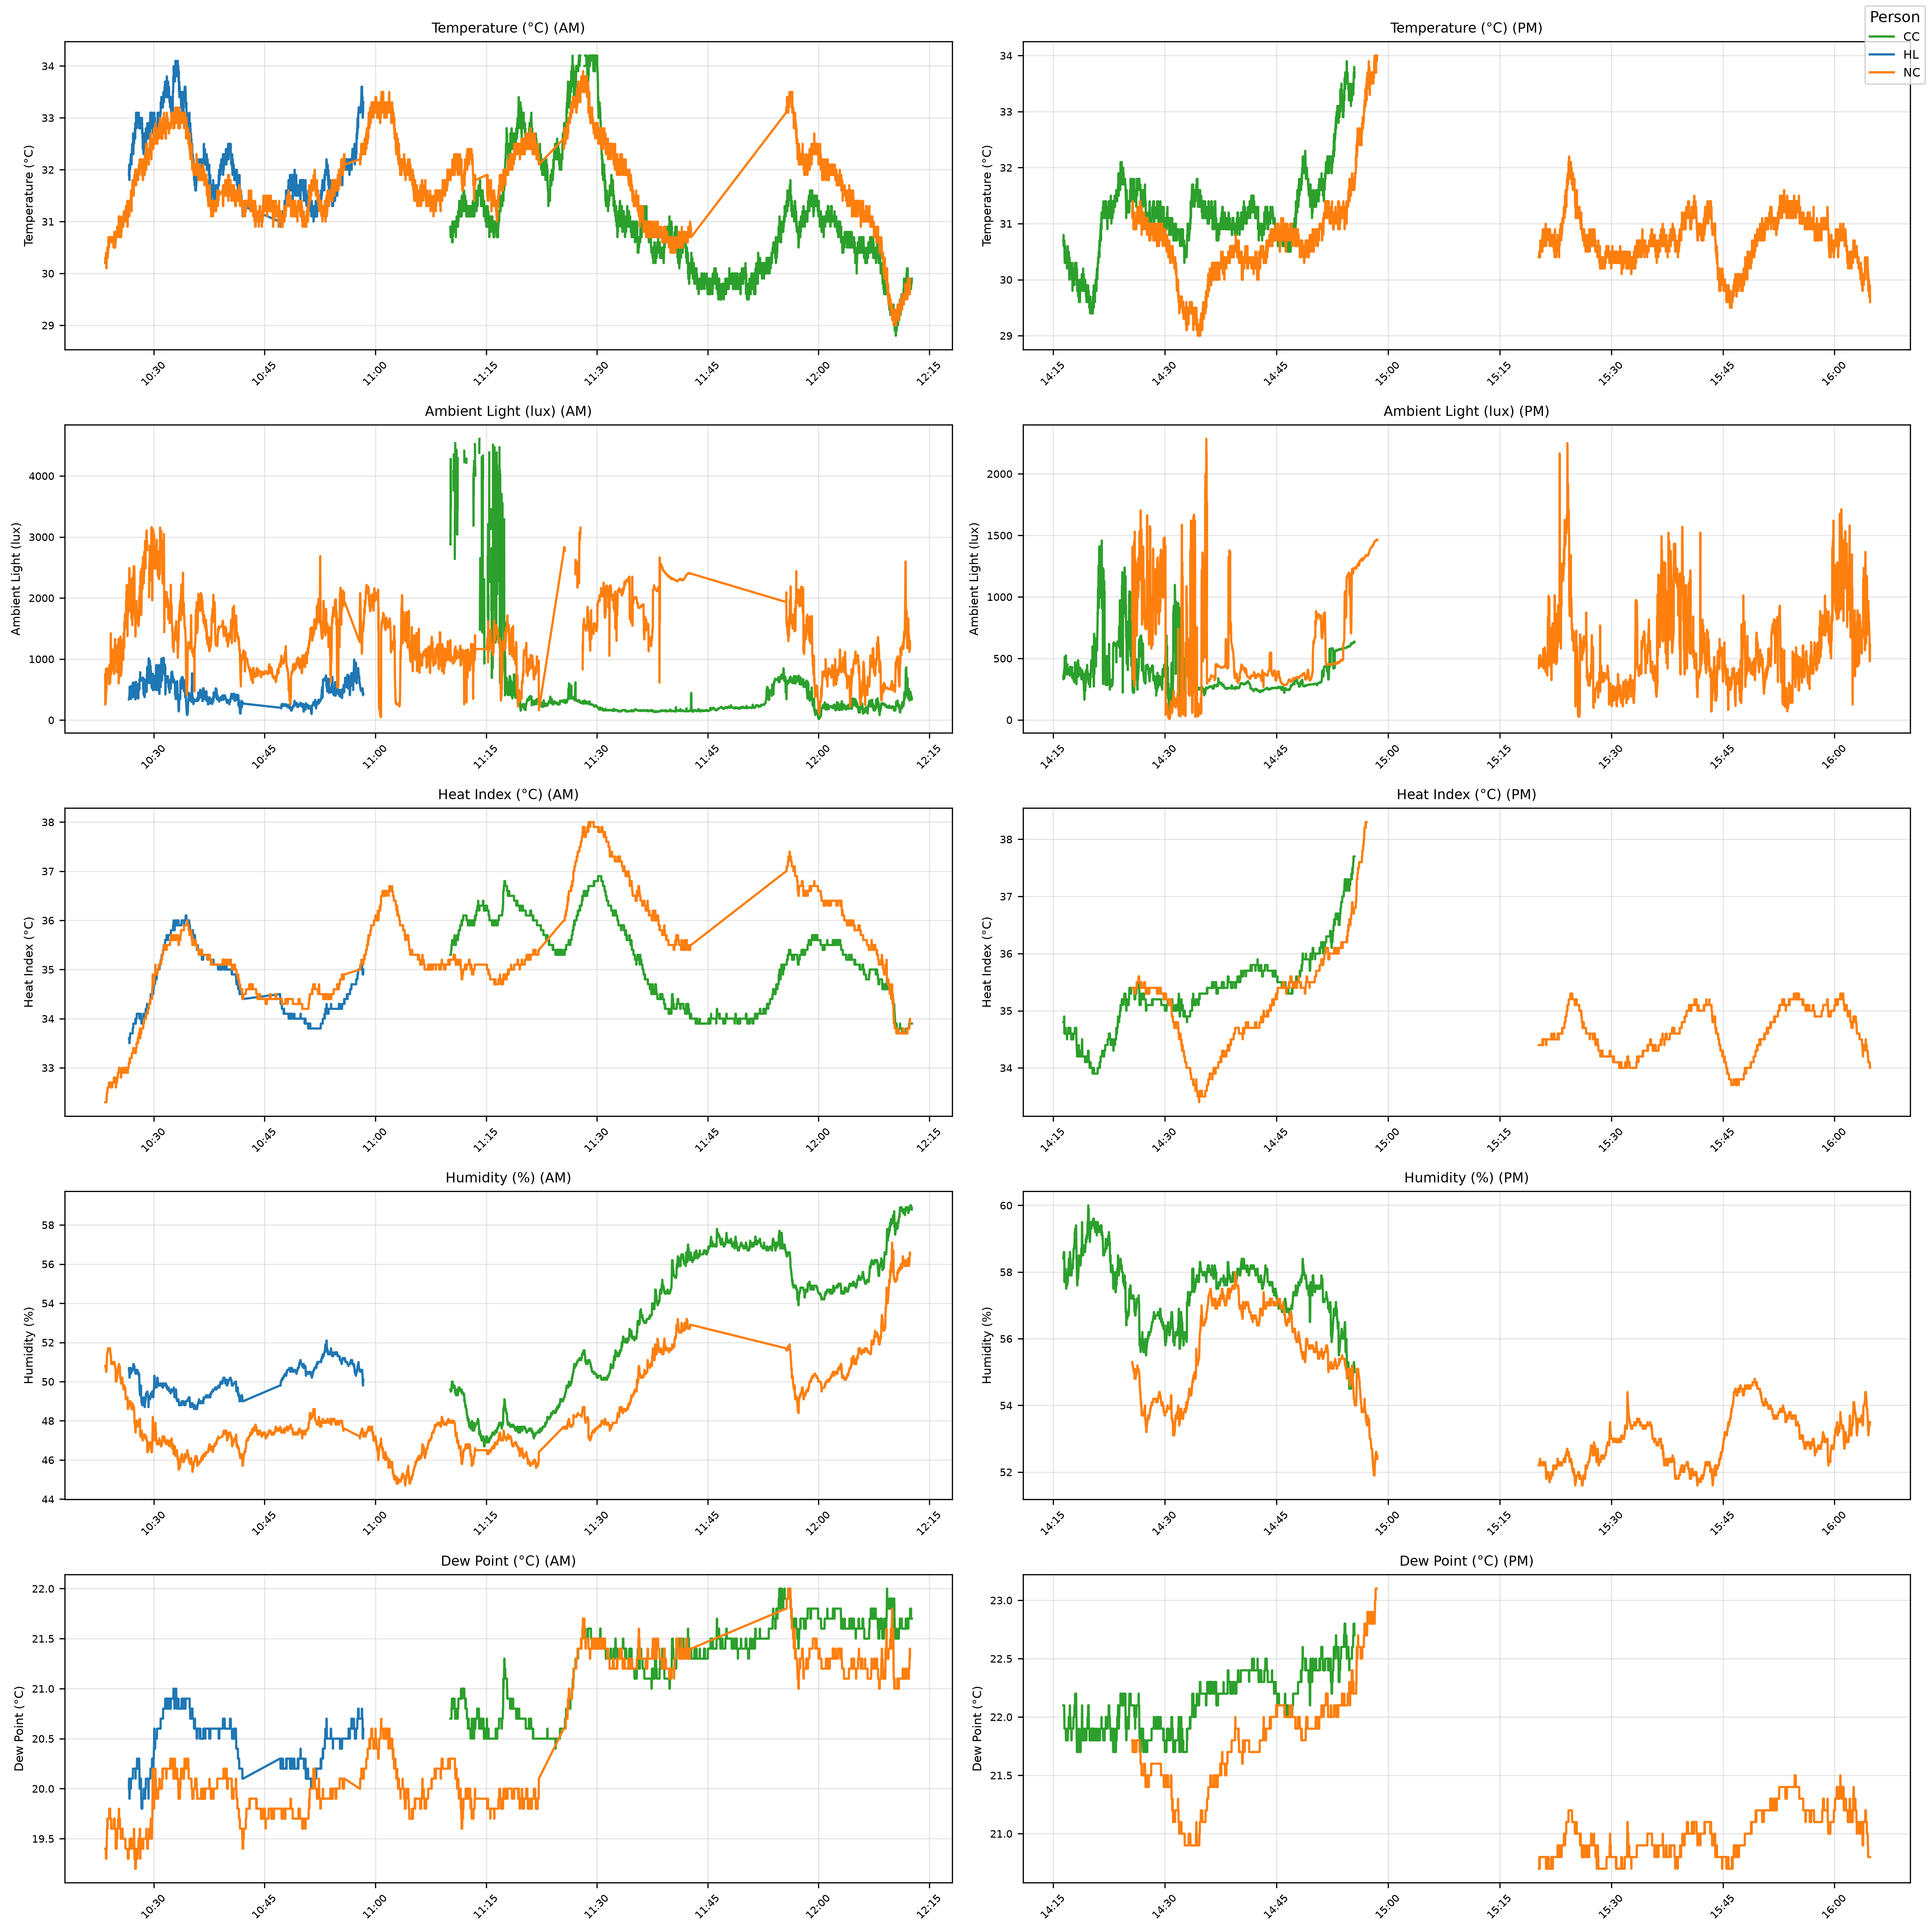
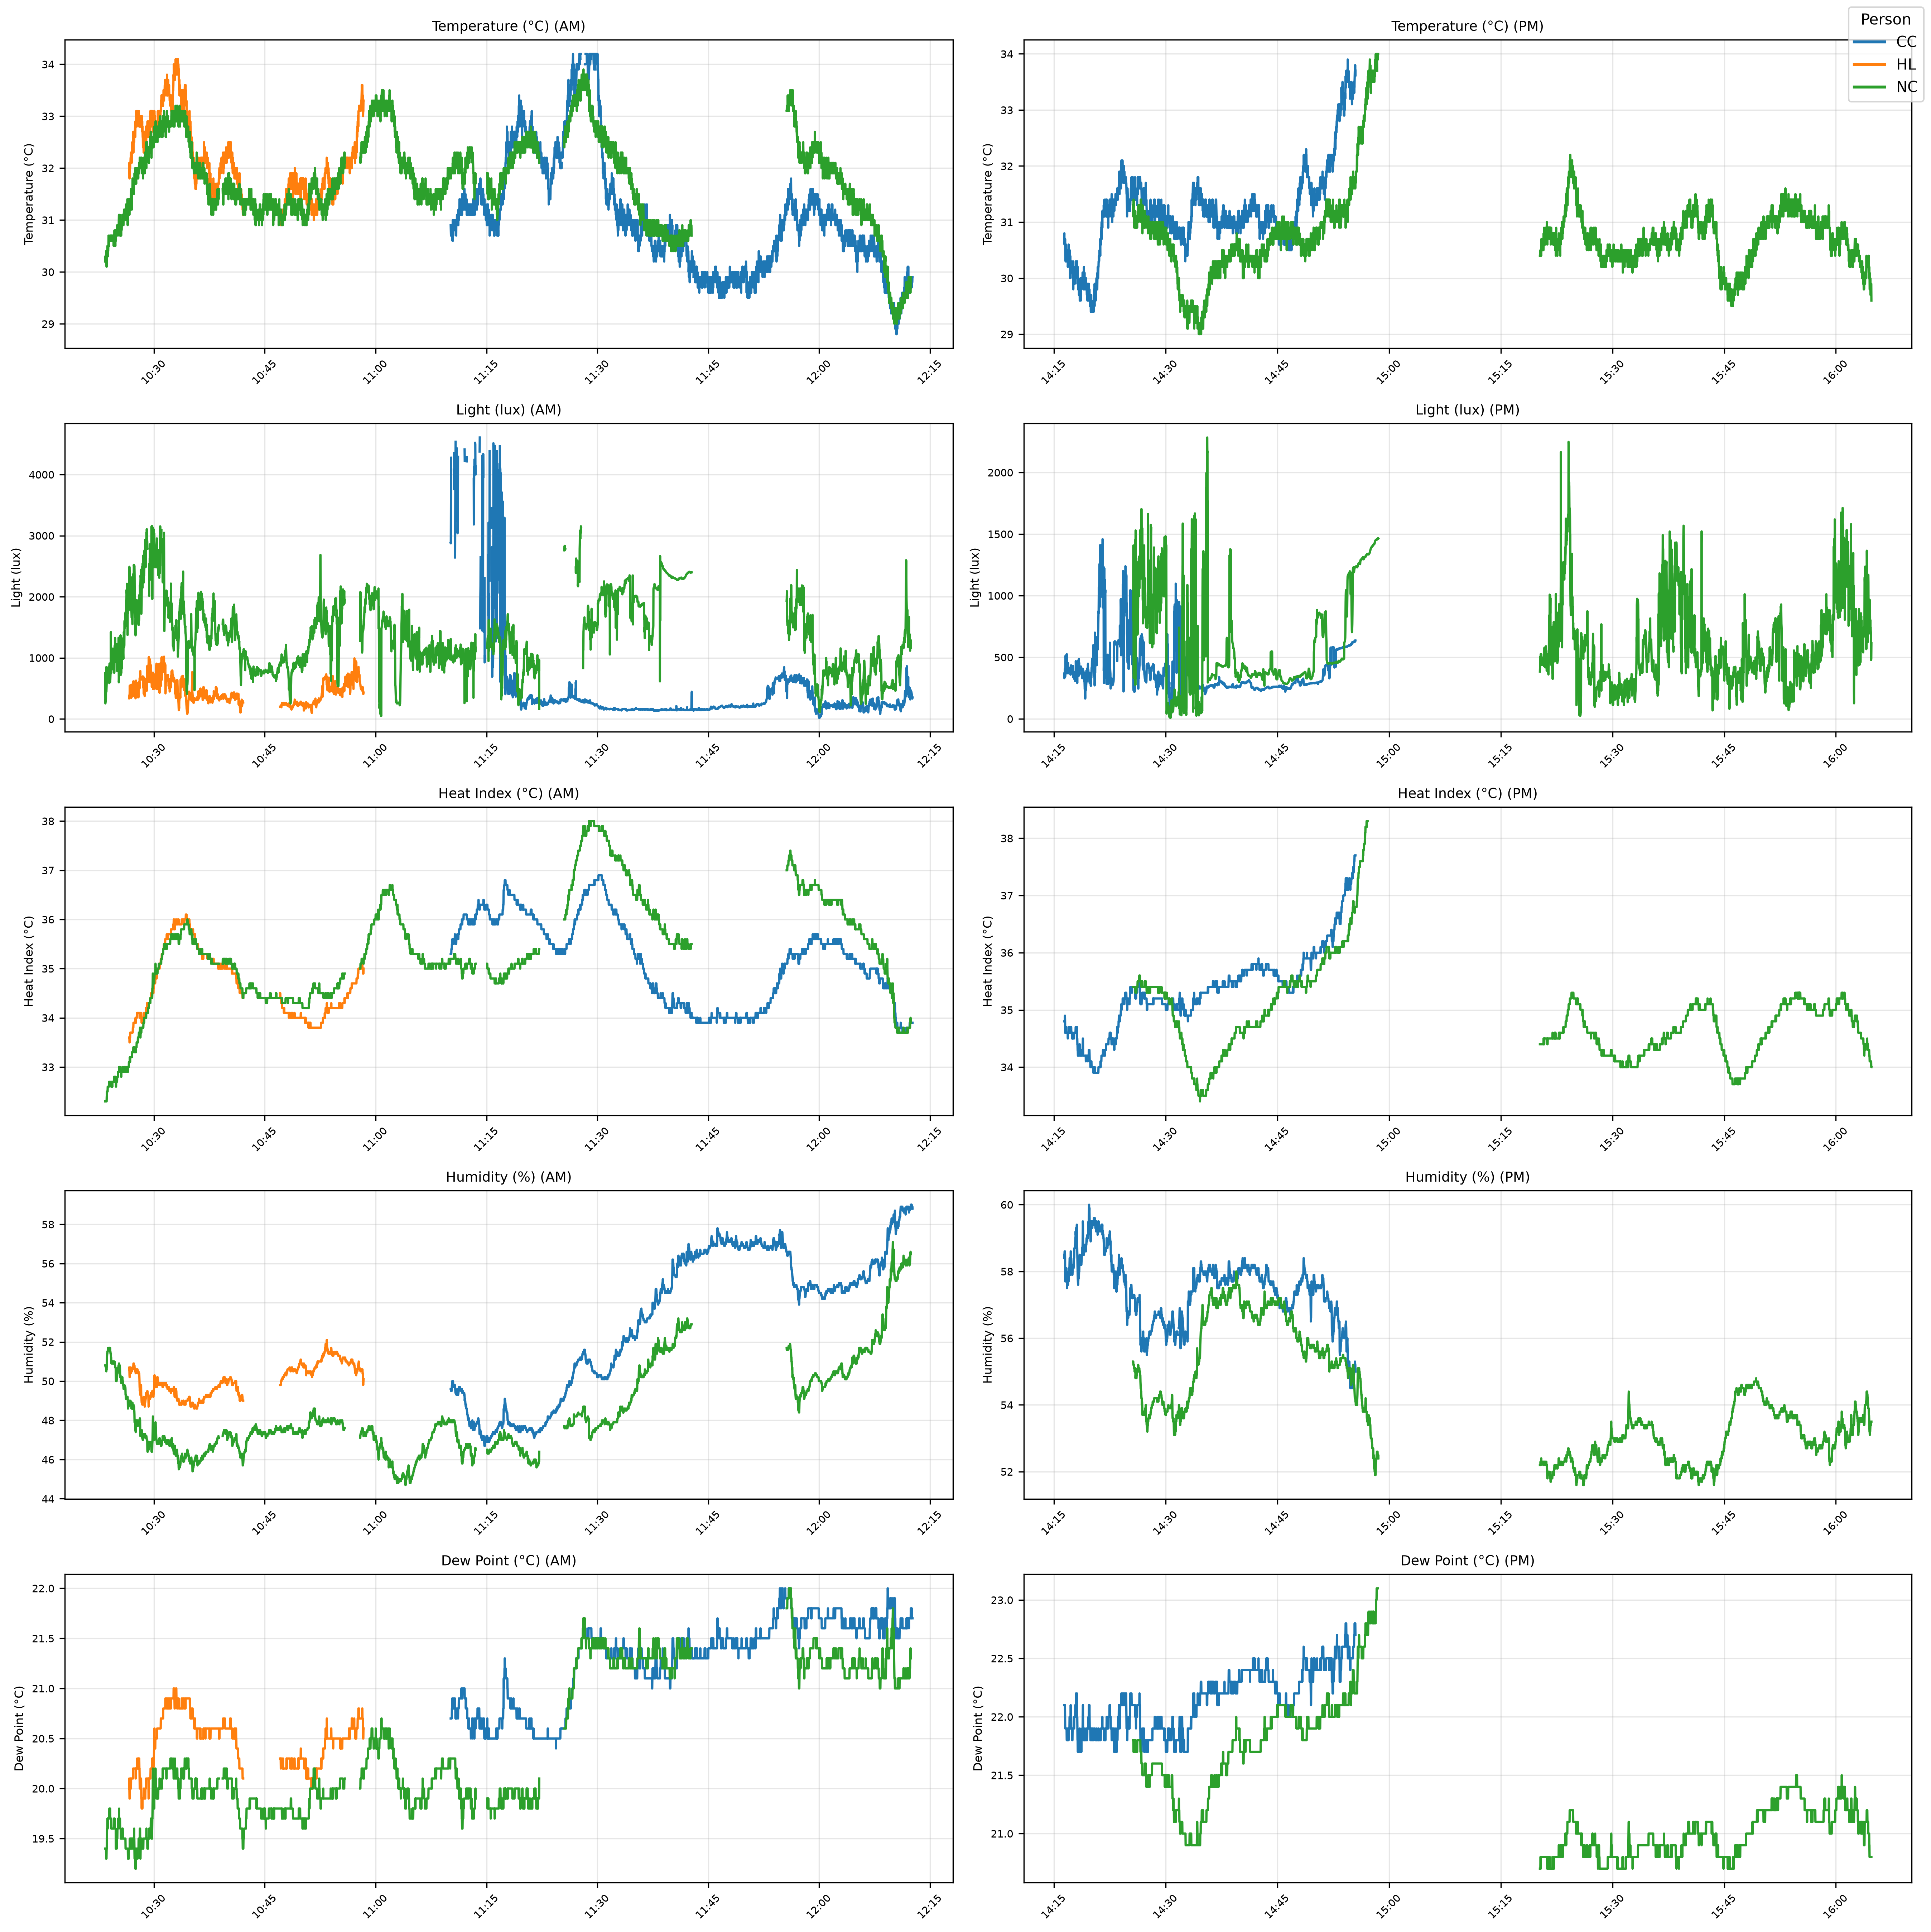
final changes for greg

diff --git a/analysis.py b/analysis.py
@@ -1,5 +1,4 @@
-print("started script")
-
+#imports
 import pandas as pd
 import glob
 import os
@@ -7,17 +6,13 @@ import matplotlib.pyplot as plt
 import matplotlib.dates as mdates
 import numpy as np
 
-# ---------------------------------------------------
-# 1. ROUTE INPUT
-# ---------------------------------------------------
+#input route number
 route = input("Enter route (e.g. R31): ").upper()
 
 folder = glob.glob(f"raw_data/*_{route}")[0]
 files = glob.glob(os.path.join(folder, "*.csv"))
 
-# ---------------------------------------------------
-# 2. LOAD DATA
-# ---------------------------------------------------
+#load data
 dfs = []
 
 for f in files:
@@ -34,9 +29,7 @@ for f in files:
 data = pd.concat(dfs, ignore_index=True)
 data.columns = [c.strip() for c in data.columns]
 
-# ---------------------------------------------------
-# 3. DATETIME
-# ---------------------------------------------------
+#date and time
 data["datetime"] = pd.to_datetime(
     data["Date"].astype(str) + " " + data["Time"].astype(str),
     errors="coerce"
@@ -44,9 +37,7 @@ data["datetime"] = pd.to_datetime(
 data = data.dropna(subset=["datetime", "person"])
 data = data.sort_values("datetime")
 
-# ---------------------------------------------------
-# 4. FIND VARIABLES
-# ---------------------------------------------------
+#find variables
 def find_col(df, keys):
     for c in df.columns:
         if any(k in c.lower() for k in keys):
@@ -71,11 +62,7 @@ for c in vars_all:
     if c:
         data[c] = to_num(data[c])
 
-
-
-# ---------------------------------------------------
-# 5. OUTLIERS → NaN
-# ---------------------------------------------------
+#eliminate outliers outside of +-3 standard deviations
 for p in data["person"].unique():
     mask = data["person"] == p
     for c in vars_all:
@@ -85,9 +72,7 @@ for p in data["person"].unique():
             data.loc[mask & (data[c] > m + 3*s), c] = np.nan
             data.loc[mask & (data[c] < m - 3*s), c] = np.nan
 
-# ---------------------------------------------------
-# 6. BUILD COMPLETE SERIES WITH REAL GAP BREAKS
-# ---------------------------------------------------
+#build series with gaps
 def build_complete_series(df, person, value_col):
     sub = df[df["person"] == person].copy()
     sub = sub.sort_values("datetime").set_index("datetime")
@@ -96,41 +81,31 @@ def build_complete_series(df, person, value_col):
         return sub
 
     diffs = sub.index.to_series().diff().dropna()
-    diffs = diffs[diffs > pd.Timedelta(0)]
-    dt = diffs.mode()[0]
-
+    diffs_pos = diffs[diffs > pd.Timedelta(0)]
+    dt = diffs_pos.mode()[0]
     gap_threshold = dt * 1.5
 
-    rows = []
-    for i in range(len(sub)):
-        rows.append(sub.iloc[[i]])
-        if i < len(sub) - 1:
-            gap = sub.index[i + 1] - sub.index[i]
-            if gap > gap_threshold:
-                mid = sub.index[i] + gap / 2
-                nan_row = pd.DataFrame(
-                    {c: [np.nan] for c in sub.columns},
-                    index=[mid]
-                )
-                nan_row["person"] = person
-                rows.append(nan_row)
+    gap_mask = diffs > gap_threshold
+    gap_starts = diffs[gap_mask].index
 
-    return pd.concat(rows)
+    if len(gap_starts) == 0:
+        return sub
 
-# ---------------------------------------------------
-# 7. COLORS
-# ---------------------------------------------------
-colors = {
-    "KH": "#4C72B0",
-    "PU": "#DD8452",
-    "CC": "#55A868"
-}
+    nan_rows = pd.DataFrame(
+        {c: np.nan for c in sub.columns},
+        index=gap_starts - pd.Timedelta(milliseconds=1)
+    )
+    nan_rows["person"] = person
 
+    result = pd.concat([sub, nan_rows]).sort_index()
+    return result
+
+#colors
 people = sorted(data["person"].unique())
+default_colors = plt.rcParams["axes.prop_cycle"].by_key()["color"]
+colors = {p: default_colors[i % len(default_colors)] for i, p in enumerate(people)}
 
-# ---------------------------------------------------
-# 8. PLOT
-# ---------------------------------------------------
+#plot
 fig, axes = plt.subplots(5, 2, figsize=(18, 18))
 
 plots = [
@@ -160,7 +135,7 @@ for r, (col, title) in enumerate(plots):
             ax.plot(
                 series.index,
                 series[col],
-                color=colors.get(p),
+                color=colors[p],
                 linewidth=1.5
             )
 
@@ -171,20 +146,16 @@ for r, (col, title) in enumerate(plots):
         ax.tick_params(axis="x", rotation=45, labelsize=7)
         ax.tick_params(axis="y", labelsize=7)
 
-# ---------------------------------------------------
-# 9. LEGEND
-# ---------------------------------------------------
-handles = [plt.Line2D([0], [0], color=c, lw=2) for c in colors.values()]
-labels  = list(colors.keys())
+#legend
+handles = [plt.Line2D([0], [0], color=colors[p], lw=2) for p in people]
+labels  = list(people)
 fig.legend(handles, labels, loc="upper right", title="Person")
 
-# ---------------------------------------------------
-# 10. SAVE
-# ---------------------------------------------------
+#save
 os.makedirs("outputs", exist_ok=True)
 plt.tight_layout()
 plt.savefig(
-    f"outputs/{route}_FINAL_NO_CONTINUITY.png",
+    f"outputs/{route}_AM_PM_multiplot.png",
     dpi=300,
     bbox_inches="tight"
 )